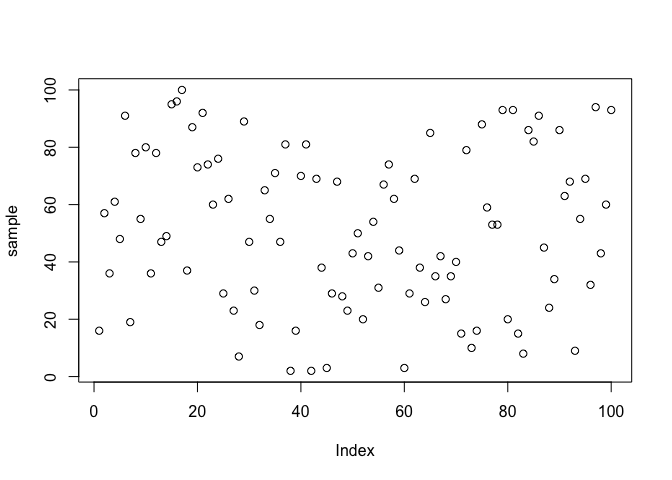
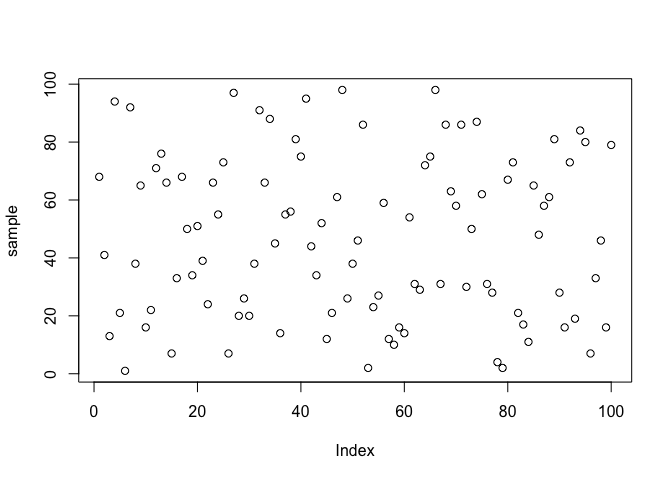
Input written responses and edit scaling question

diff --git a/Assignment_1.md b/Assignment_1.md
@@ -72,6 +72,13 @@ sprintf("The mode age in this sample is: %s", mode)
 
 ## c. What can you say about the three measures of central tendency?
 
+The three measures of central tendency are relatively similar (\~25).
+This tells us that the data set of Participant Ages do not have
+extraneous outliers that may have affected the mean of ages. Therefore,
+because all three measures of central tendency are \~25 years of age, it
+lets us know that the normal or ‘average’ age for the participants in
+this sample is 25.
+
 # Question 2
 
 Create a random selection of 10 numbers ranging from 1 to 100 (using the
@@ -85,7 +92,7 @@ sample = sample(1:100, 10, replace=TRUE)
 sample
 ```
 
-    ##  [1]  7 49 77 82 60 51  3 34 89  9
+    ##  [1] 81 85 29 98 26 37 78 59 41 85
 
 ## a. What is the median? What is the mean? Is there a difference between the two? Why?
 
@@ -95,7 +102,7 @@ mean = mean(sample)
 sprintf("The mean in this sample is: %s", mean)
 ```
 
-    ## [1] "The mean in this sample is: 46.1"
+    ## [1] "The mean in this sample is: 61.9"
 
 ``` r
 # Find the median of the sample
@@ -103,7 +110,14 @@ median = median(sample)
 sprintf("The median in this sample is: %s", median)
 ```
 
-    ## [1] "The median in this sample is: 50"
+    ## [1] "The median in this sample is: 68.5"
+
+Yes, there is a minor difference between the mean and median. This is
+most likely the case because the sample of 10 values, while randomly
+samples, is skewed slightly towards the left – or the sample contains
+more values closer to 60. This happens because the mean outlines the
+center of gravity of data set whereas median highlights the middle-most
+value of the data set.
 
 ## b. Compute the standard deviation
 
@@ -113,7 +127,7 @@ sd = sd(sample)
 sprintf("The standard deviation of this sample is: %s", sd)
 ```
 
-    ## [1] "The standard deviation of this sample is: 32.0050343262153"
+    ## [1] "The standard deviation of this sample is: 26.7309641510448"
 
 ## c. Create a plot to visualize these data
 
@@ -133,12 +147,10 @@ sample = sample(1:100, 100, replace=TRUE)
 sample
 ```
 
-    ##   [1]  16  57  36  61  48  91  19  78  55  80  36  78  47  49  95  96 100  37
-    ##  [19]  87  73  92  74  60  76  29  62  23   7  89  47  30  18  65  55  71  47
-    ##  [37]  81   2  16  70  81   2  69  38   3  29  68  28  23  43  50  20  42  54
-    ##  [55]  31  67  74  62  44   3  29  69  38  26  85  35  42  27  35  40  15  79
-    ##  [73]  10  16  88  59  53  53  93  20  93  15   8  86  82  91  45  24  34  86
-    ##  [91]  63  68   9  55  69  32  94  43  60  93
+    ##   [1] 68 41 13 94 21  1 92 38 65 16 22 71 76 66  7 33 68 50 34 51 39 24 66 55 73
+    ##  [26]  7 97 20 26 20 38 91 66 88 45 14 55 56 81 75 95 44 34 52 12 21 61 98 26 38
+    ##  [51] 46 86  2 23 27 59 12 10 16 14 54 31 29 72 75 98 31 86 63 58 86 30 50 87 62
+    ##  [76] 31 28  4  2 67 73 21 17 11 65 48 58 61 81 28 16 73 19 84 80  7 33 46 16 79
 
 ## a. What is the median, mean, and standard deviation of this sample?
 
@@ -148,7 +160,7 @@ mean = mean(sample)
 sprintf("The mean in this sample is: %s", mean)
 ```
 
-    ## [1] "The mean in this sample is: 51.46"
+    ## [1] "The mean in this sample is: 46.99"
 
 ``` r
 # Find the median of the sample
@@ -156,7 +168,7 @@ median = median(sample)
 sprintf("The median in this sample is: %s", median)
 ```
 
-    ## [1] "The median in this sample is: 51.5"
+    ## [1] "The median in this sample is: 46"
 
 ``` r
 # Compute the standard deviation of the sample
@@ -164,7 +176,7 @@ sd = sd(sample)
 sprintf("The standard deviation of this sample is: %s", sd)
 ```
 
-    ## [1] "The standard deviation of this sample is: 27.2717043579212"
+    ## [1] "The standard deviation of this sample is: 27.8021491066697"
 
 ## b. Create a plot to visualize these data
 
@@ -176,6 +188,21 @@ plot(sample)
 ![](Assignment_1_files/figure-gfm/unnamed-chunk-10-1.png)<!-- -->
 
 ## c. How do these values from your sample of 100 compare to your first sample of 10? Are they similar/different? Why? \[If you expected them to be similar and they are not (or vice versa), why aren’t they similar (or different)?\]
+
+I expected both the sample of 100 values and 10 values to have no
+distinct correlation since they are both random samples. Observing both
+of the plots, the plot with 100 values is more clearly random, but the
+plot with 10 values also shows a non-correlational relationship between
+the points. Furthermore, the high standard deviation for the sample with
+100 values tells us that the data is greatly dispersed in relation to
+the mean, which deters a correlation between the values.
+
+What was different was that the sample of 100 values has a greater
+difference between the mean and median, which tells us that it is even
+more skewed towards the left compared to the sample of 10 values. This
+is most likely due to the fact that in a sample with more data values,
+the mean underestimates the most common values in a negatively skewed
+distribution. Also, the higher
 
 # Question 3
 
@@ -273,7 +300,17 @@ sprintf("The median reaction time in the Candy-Present group: %s", median)
 
     ## [1] "The median reaction time in the Candy-Present group: 533"
 
+Observing the mean and median for both groups, it is clear that the
+group with Candy-Present has generally higher values of reaction time.
+Meaning, the group with candy on average took more time to solve the
+word-problems.
+
 ## b. If you changed the highest score in the Candy-Absent group to be 10 times the original value, what would happen to the mean? What about median?
+
+I would expect the mean to be largely affected by this change as the
+mean is more sensitive to outliers. I would expect nothing to change
+with the median as the order and number of values will remain the same,
+which would not affect the middle value of the group sample.
 
 ``` r
 # Find the index of the max reaction time in the Candy Absent group
@@ -300,6 +337,13 @@ sprintf("The median reaction time in the altered Candy-Absent group: %s", median
 
 ## c. If you changed the highest score in the Candy-Present group to be one tenth is original value, what would happen to the mean? What about the median?
 
+I would expect the mean to be still affected by this change as the mean
+is more sensitive to outliers and scaling a value to be smaller (one
+tenth of its original value), would be an outlier. I would expect the
+median to change as well, because now the highest score will be the
+smallest score, which affects the order of the values, which would
+affect the middle value of the group sample.
+
 ``` r
 # Find the index of the max reaction time in the Candy Present group
 max_time = which.max(candy_present$Reaction_Time)
@@ -307,14 +351,14 @@ max_time = candy_present$Participant[[max_time]]
 
 # Create a copy of the candy_present data frame and change the value of the highest score 
 candy_present_copy = cbind(candy_present)
-candy_present_copy = replace(candy_present_copy$Reaction_Time, candy_present_copy$Participant == max_time, (candy_present_copy$Reaction_Time[candy_present_copy$Participant == max_time]*10))
+candy_present_copy = replace(candy_present_copy$Reaction_Time, candy_present_copy$Participant == max_time, (candy_present_copy$Reaction_Time[candy_present_copy$Participant == max_time]*0.1))
 
 # Find the mean of reaction times in the altered Candy Present group
 mean = mean(candy_present_copy)
 sprintf("The mean reaction time in the altered Candy-Present group is: %s", mean)
 ```
 
-    ## [1] "The mean reaction time in the altered Candy-Present group is: 975.333333333333"
+    ## [1] "The mean reaction time in the altered Candy-Present group is: 517.953333333333"
 
 ``` r
 # Find the median of reaction time in the altered Candy Present group
@@ -322,7 +366,7 @@ median = median(candy_present_copy)
 sprintf("The median reaction time in the altered Candy-Present group: %s", median)
 ```
 
-    ## [1] "The median reaction time in the altered Candy-Present group: 533"
+    ## [1] "The median reaction time in the altered Candy-Present group: 510"
 
 # Question 4
 
@@ -369,6 +413,12 @@ legend("topleft", legend = c("Pre-Test", "Post-Test"),
 
 ![](Assignment_1_files/figure-gfm/unnamed-chunk-17-1.png)<!-- -->
 
+It is difficult to discern from the plot if there is a relationship
+between scores before and after using the studying technique. Vaguely,
+it appears that there is somewhat of a positive correlation between pre-
+and post-test scores – meaning students who performed higher on the
+pre-test are likely to also perform higher on the post-test.
+
 ## b. Now check to see if there is a correlation between participants’ pre- and post-test scores. What is the correlation? You can use the cor() function in R.
 
 ``` r
@@ -381,6 +431,19 @@ sprintf("The correlation between participants' pre- and post-test scores is: %s"
 
 ## c. What do you think of this teacher’s experiment to test their studying technique? Do you think they did a good experiment to yield appropriate data to test the effectiveness of their studying technique?
 
+No, I do not think the teacher’s experiment to test the *effectiveness*
+of their studying technique was a good experiment. Using a correlation
+to find the relationship between the pre- and post-test tells us nothing
+about how the *studying technique* positively effected the scores of
+students – it only tells us how the pre- and post-test scores are
+related (may be dependent on student’s innate ability).
+
 ### If yes, why? Be concrete about what you think the teacher did right.
 
 ### If no, give one suggestion (besides running with a larger sample size) the teacher could do to improve their experiment?
+
+I would suggest for the teacher to implement a control group that does
+not utilize the studying technique and test group that does utilize the
+studying technique. By doing this, the teacher can clearly use a
+comparison of mean scores (t-test) to identify how effective using the
+studying method is compared to not using the studying method.
